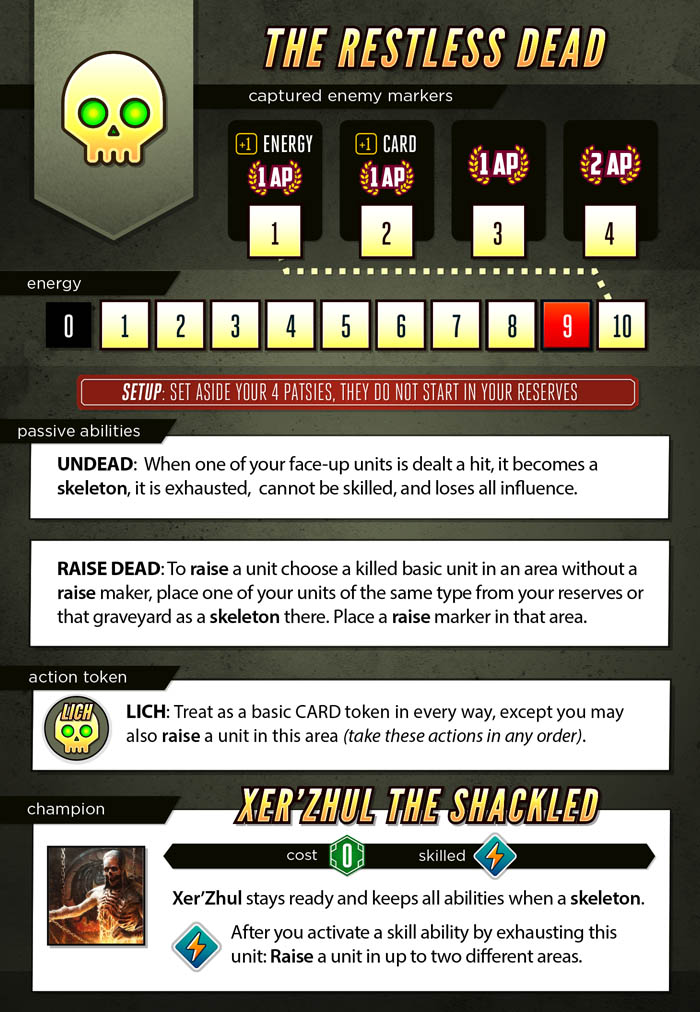
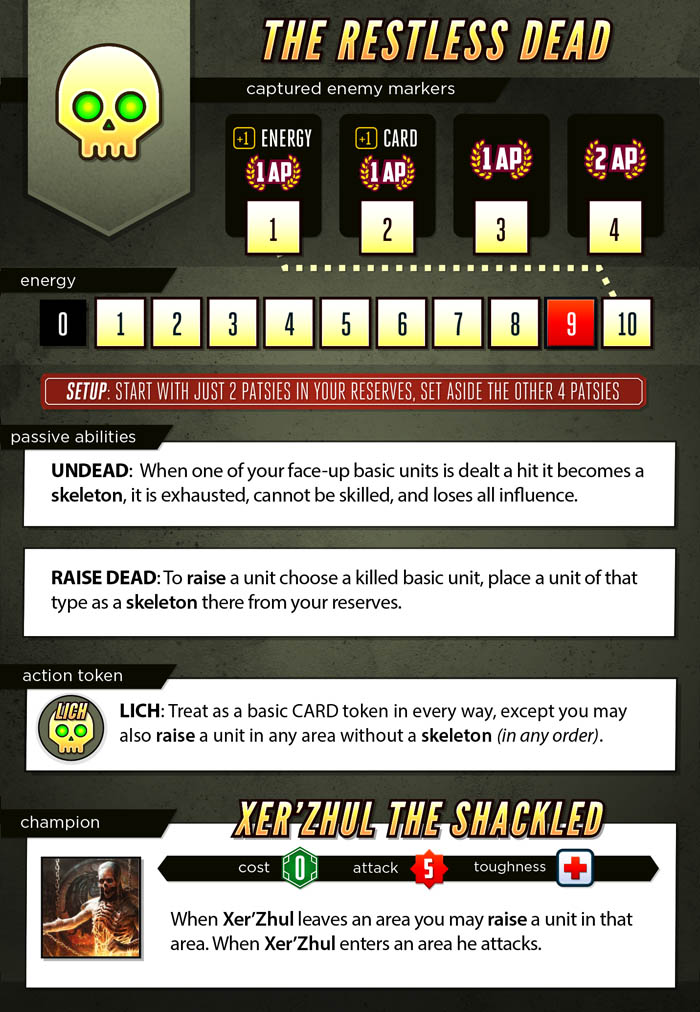
SKELETONS: rework

diff --git a/server/classes/factions/Skeletons.js b/server/classes/factions/Skeletons.js
@@ -9,7 +9,7 @@ class Skeletons extends Faction {
 
         // triggers
         this.triggers = {
-            "onCleanUp" : "resetRaiseAreas",
+            //"onCleanUp" : "resetRaiseAreas",
             "onSetup" : "setupPatsies",
         };
 
@@ -47,12 +47,12 @@ class Skeletons extends Faction {
             props : ['influence', 'skilled']
         };
 
-        this.units['goon'].count = 4;
+        this.units['goon'].count = 5;
         this.units['goon'].data.onDamaged = 'checkBecomeSkeleton';
         this.units['goon'].data.flipped = false;
         this.units['goon'].data.skeleton = false;
 
-        this.units['mole'].count = 4;
+        this.units['mole'].count = 5;
         this.units['mole'].data.onDamaged = 'checkBecomeSkeleton';
         this.units['mole'].data.flipped = false;
         this.units['mole'].data.skeleton = false;
@@ -63,7 +63,7 @@ class Skeletons extends Faction {
         this.units['talent'].data.skeleton = false;
 
 
-        this.units['patsy'].count = 4;
+        this.units['patsy'].count = 6;
         this.units['patsy'].data.onDamaged = 'checkBecomeSkeleton';
         this.units['patsy'].data.flipped = false;
         this.units['patsy'].data.skeleton = false;
@@ -76,7 +76,7 @@ class Skeletons extends Faction {
                 type: 'champion',
                 basic: false,
                 influence: 0,
-                attack: [],
+                attack: [5],
                 cost: 0,
                 flipped: false,
                 killed: false,
@@ -85,8 +85,9 @@ class Skeletons extends Faction {
                 skilled: true,
                 ready: false,
                 hitsAssigned: 0,
-                onDamaged : 'checkBecomeSkeleton',
-                onSkill : 'xerZhulRaiseDead',
+                toughness: true,
+                onDeploy: 'xerZhulActions',
+                onMove: 'xerZhulActions',
             }
         };
     }
@@ -128,28 +129,26 @@ class Skeletons extends Faction {
 
     deadWeCanRaiseByArea(){
         const unitTypesInReserves = this.unitTypesInReserves();
+        const areasWithSkeletons = this.areasWithUnits({ basic: true, flipped: true });
+
         const areas = {};
 
         Object.values( this.game().factions ).forEach( faction => {
             const options = { killed : true, basic: true };
-
-            if( faction.name !== this.name ){
-                options.typeIn = unitTypesInReserves;
-            }
+            options.typeIn = unitTypesInReserves;
 
             faction.data.units.forEach( unit => {
-                if( _.isValidUnit( unit, options ) ){
-                    if( !areas[unit.location] ){
-                        areas[unit.location] = new Set();
-                    }
+                if( !_.isValidUnit( unit, options ) ) return;
 
-                    areas[unit.location].add( unit.type );
+                if( !areas[unit.location] ){
+                    areas[unit.location] = new Set();
                 }
+
+                areas[unit.location].add( unit.type );
             })
         });
 
-        this.data.raiseAreas.forEach(area => delete areas[area]);
-
+        areasWithSkeletons.forEach(area => delete areas[area]);
         return areas;
     }
 
@@ -167,7 +166,7 @@ class Skeletons extends Faction {
         let done = false;
 
         while(done === false){
-            let {availableActions, raiseableUnits} = this.populateLichActions( args.token, args.area, actionsTaken );
+            let {availableActions, raiseableUnits, raiseableAreas} = this.populateLichActions( args.token, args.area, actionsTaken );
 
             if( availableActions.length === 0 ){
                 done = true;
@@ -193,7 +192,7 @@ class Skeletons extends Faction {
                     actionsTaken.push('card');
                 }
             } else {
-                let unitRaised = await this.raiseUnit([args.area.name]);
+                let unitRaised = await this.raiseUnit(raiseableAreas);
 
                 if( unitRaised ){
                     actionsTaken.push('raise');
@@ -215,7 +214,7 @@ class Skeletons extends Faction {
         let actions = [];
         const deadWeCanRaise = this.deadWeCanRaiseByArea();
 
-        if( !actionsTaken.includes( 'raise' ) && deadWeCanRaise[area.name] ){
+        if( !actionsTaken.includes( 'raise' ) && Object.keys( deadWeCanRaise ).length ){
             actions.push( 'raise' );
         }
 
@@ -223,9 +222,13 @@ class Skeletons extends Faction {
             actions.push( 'card' );
         }
 
+        let raiseableUnitTypes = new Set();
+        Object.values(deadWeCanRaise).forEach(set => set.forEach(val => raiseableUnitTypes.add(val)));
+
         return {
             availableActions : actions,
-            raiseableUnits : deadWeCanRaise[area.name] ?? new Set()
+            raiseableUnits : raiseableUnitTypes,
+            raiseableAreas : Object.keys(deadWeCanRaise),
         };
     }
 
@@ -355,9 +358,9 @@ class Skeletons extends Faction {
 
     async raiseUnit( areas, count = 1){
 
-        let filteredAreas = areas.filter(area => !this.data.raiseAreas.includes(area));
+       // let filteredAreas = areas.filter(area => !this.data.raiseAreas.includes(area));
 
-        if( !filteredAreas.length ){
+        if( !areas.length ){
             this.message( "No dead to raise", { class : 'warning' } );
             return;
         }
@@ -366,7 +369,7 @@ class Skeletons extends Faction {
 
         let response = await this.prompt( 'choose-units', {
             count: count,
-            areas: filteredAreas,
+            areas: areas,
             killedOnly: true,
             basicOnly: true,
             optionalMax: true,
@@ -386,7 +389,7 @@ class Skeletons extends Faction {
 
         let units = [];
 
-        let raiseAreas = this.data.raiseAreas;
+        //let raiseAreas = this.data.raiseAreas;
 
         response.units.forEach( responseUnit => {
             let chosenUnit = this.game().objectMap[ responseUnit ];
@@ -410,7 +413,7 @@ class Skeletons extends Faction {
             }
 
             unit.location = area;
-            raiseAreas.push(area);
+            //raiseAreas.push(area);
 
             units.push(unit);
         });
@@ -423,25 +426,56 @@ class Skeletons extends Faction {
         return true;
     }
 
+    async xerZhulActions( event ){
+        const toArea = event.unit.location;
+        const fromArea = event.from;
+        const XerZhul = event.unit;
+
+        if( fromArea === event.unit.location ) return;
+
+        // if we moved from an area raise dead
+        if( fromArea ){
+            await this.xerZhulRaiseDead( fromArea );
+        }
+
+        await this.xerZhulAttack( XerZhul, toArea );
+    }
+
+    async xerZhulAttack( unit, area ){
+        // resolve attack with that unit
+        let output = await this.attack({
+            area : this.game().areas[area],
+            attacks : unit.attack,
+            unit : unit
+        });
+
+        if( output ){
+            await this.game().timedPrompt('noncombat-attack', { output : [output] } )
+                .catch( error => console.error( error ) );
+        }
+    }
 
     /**
-     * Allow Xer'Zhul to raise the dead when he uses a skill ability
+     * Allow Xer'Zhul to raise the dead
      *
-     * @param event
+     * @param area
      */
-    async xerZhulRaiseDead( event ){
+    async xerZhulRaiseDead( area ){
         const areas = Object.keys( this.deadWeCanRaiseByArea() );
 
-        if( !areas.length ){
+        if( !areas.includes( area ) ){
             this.message( "No dead for Xer'Zhul to raise", { class : 'warning' } );
             return;
         }
-        await this.raiseUnit( areas, 2 );
+
+        await this.raiseUnit( [ area ] );
     }
 
+    /*
     resetRaiseAreas(){
         this.data.raiseAreas = [];
     }
+     */
 
     /**
      * Returns a list of areas that are adjacent to the given area, and where we have tokens
